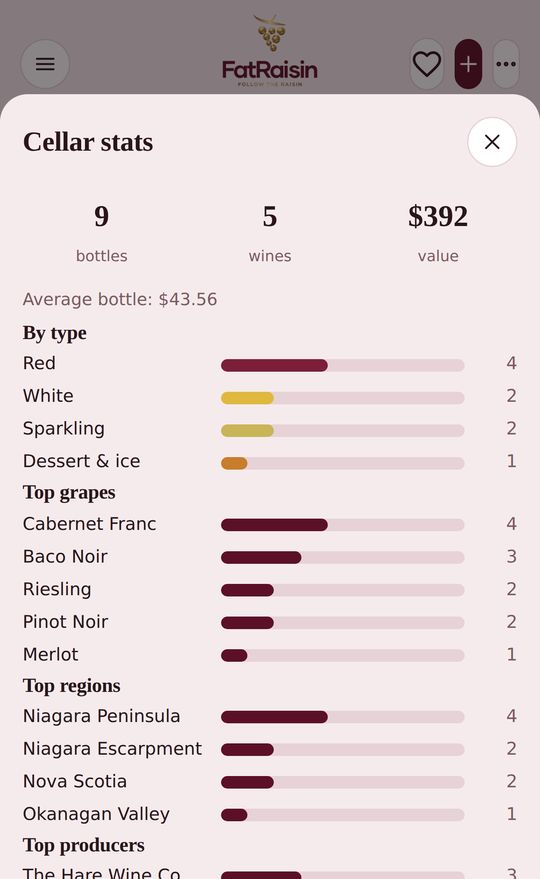
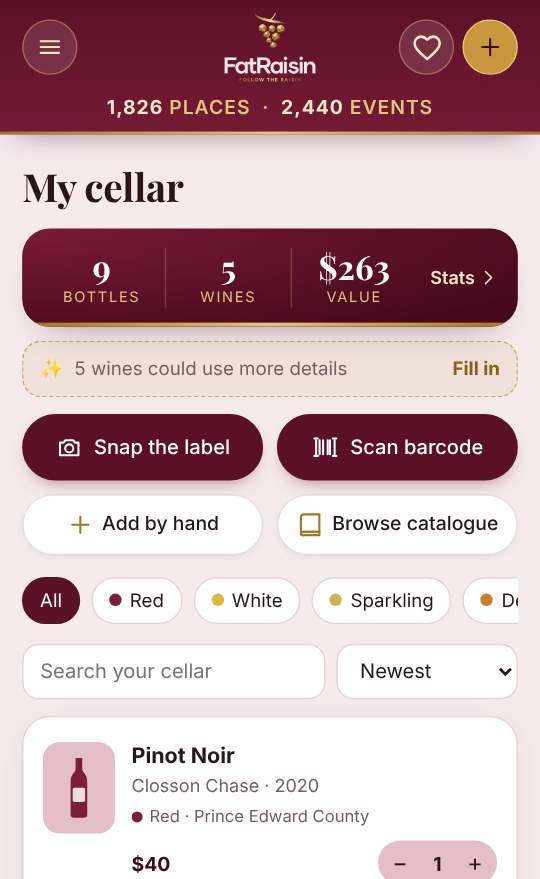
New welcome-tour pictures from the current design; Cellar summary card; one main and one secondary button style
Claude-Session: https://claude.ai/code/session_012HPqv8bDyUp9nkdMJtseXb

diff --git a/index.html b/index.html
@@ -1131,6 +1131,28 @@ button.gtk{cursor:pointer}button.gtk[aria-pressed="true"]{background:var(--accen
 .mlb{flex:1;min-width:0;font-size:14.5px;font-weight:500}
 .mnum{flex:none;min-width:24px;padding:1px 8px;border-radius:999px;background:rgba(92,16,39,.07);color:#5C1027;font-size:12px;font-weight:700;text-align:center}
 .mfoot{font-size:12px;color:var(--muted);text-align:center;margin:16px 0 0}
+
+/* ===== cellar top, refreshed ===== */
+.ctop{padding-bottom:6px}
+.csum{display:grid;grid-template-columns:1fr 1fr 1fr auto;align-items:center;width:100%;margin:0 0 10px;padding:14px 12px;border:0;border-radius:20px;cursor:pointer;font:inherit;text-align:center;color:#F6E7C8;background:radial-gradient(120% 120% at 0% 0%,#7A1A36 0%,#5C1027 60%,#45091D 100%);box-shadow:0 12px 26px -18px rgba(60,8,24,.6);position:relative;overflow:hidden}
+.csum::after{content:"";position:absolute;left:0;right:0;bottom:0;height:3px;background:linear-gradient(90deg,#A47424,#E6C27A 50%,#A47424)}
+.csum>span{display:flex;flex-direction:column;gap:1px}
+.csum>span+span{border-left:1px solid rgba(230,194,122,.25)}
+.csum b{font-family:var(--serif);font-size:24px;font-weight:700;color:#fff;line-height:1.1}
+.csum small{font-size:10.5px;letter-spacing:.12em;text-transform:uppercase;color:#E6C27A}
+.csum .csumgo{flex-direction:row;align-items:center;gap:2px;padding:0 2px 0 10px;font-size:13px;font-weight:600;color:#F6E7C8;border-left:0!important}
+.csum .csumgo .i{width:15px;height:15px}
+.cfillbar{display:flex;align-items:center;gap:8px;width:100%;margin:0 0 12px;padding:9px 12px;border-radius:14px;border:1px dashed rgba(164,116,36,.55);background:rgba(201,151,62,.1);font:inherit;font-size:13.5px;color:var(--ink);cursor:pointer;text-align:left}
+.cfillbar span{flex:1;color:var(--muted)}.cfillbar b{color:#8A5F1A;font-weight:700}
+/* ===== buttons: one main style (wine) and one secondary style (white) everywhere ===== */
+.btn{border-color:rgba(92,16,39,.14);box-shadow:0 2px 8px -6px rgba(60,8,24,.35)}
+.btn:hover{border-color:rgba(92,16,39,.14)}
+@media (hover:hover){.btn:hover{border-color:rgba(92,16,39,.35)}}
+.btn:not(.primary):not(.appleid):not(.visited):not(.going):not(.hhghost) .i,
+.btn:not(.primary):not(.appleid):not(.visited):not(.going):not(.hhghost)>svg{color:#A47424}
+.top .btn.icon .i,.top .btn.icon>svg{color:inherit!important}
+.btn.gold{border:1px solid rgba(92,16,39,.14);box-shadow:0 2px 8px -6px rgba(60,8,24,.35)}
+.btn.primary{box-shadow:0 6px 14px -8px rgba(92,16,39,.7)}
 </style>
 </head>
 <body>
@@ -2009,11 +2031,11 @@ function deleteAccount(){
 /* ===== welcome tour: three screens the first time the app opens (after the age check) ===== */
 var TOURKEY='cellardoor:tour:v1';
 var TOUR=[
-  {img:'img/tour-places.jpg',kick:'Discover',title:'Find wineries, breweries & more',text:'Thousands of places across Canada and the US. Search, filter by type or what\u2019s open now, and see photos, hours and directions.'},
-  {img:'img/tour-trails.jpg',kick:'Plan',title:'One-tap trails for a day out',text:'Start a ready-made trail, wineries only or mixed with breweries and cideries, and FatRaisin puts the stops in the best driving order.'},
-  {img:'img/tour-events.jpg',kick:'What\u2019s on',title:'Never miss a harvest dinner',text:'Tastings, releases, dinners and music near you. Tap I\u2019m going and add a reminder to your calendar.'},
-  {img:'img/tour-passport.jpg',kick:'Collect',title:'Stamp your passport',text:'Mark the places you visit and collect an inked stamp for each, then share your passport card with friends.'},
-  {img:'img/tour-cellar.jpg',kick:'Your cellar',title:'Snap a label, keep your cellar',text:'Photograph a bottle and FatRaisin reads the label for you. See what you have, what it\u2019s worth and what to drink soon.'}
+  {img:'img/tour-places.jpg?v=2',kick:'Discover',title:'Find wineries, breweries & more',text:'Thousands of places across Canada and the US. Search, filter by type or what\u2019s open now, and see photos, hours and directions.'},
+  {img:'img/tour-trails.jpg?v=2',kick:'Plan',title:'One-tap trails for a day out',text:'Start a ready-made trail, wineries only or mixed with breweries and cideries, and FatRaisin puts the stops in the best driving order.'},
+  {img:'img/tour-events.jpg?v=2',kick:'What\u2019s on',title:'Never miss a harvest dinner',text:'Tastings, releases, dinners and music near you. Tap I\u2019m going and add a reminder to your calendar.'},
+  {img:'img/tour-passport.jpg?v=2',kick:'Collect',title:'Stamp your passport',text:'Mark the places you visit and collect an inked stamp for each, then share your passport card with friends.'},
+  {img:'img/tour-cellar.jpg?v=2',kick:'Your cellar',title:'Snap a label, keep your cellar',text:'Photograph a bottle and FatRaisin reads the label for you. See what you have, what it\u2019s worth and what to drink soon.'}
 ];
 function showTour(force){
   try{if(!force&&localStorage.getItem(TOURKEY))return}catch(e){}
@@ -5883,7 +5905,10 @@ function cellarStatsHTML(){
 function cellarHTML(){
   var all=S.cellar||[],f=S.cFilter||'all',q=(S.cSearch||'').trim().toLowerCase(),sort=S.cSort||'recent';
   var bottles=0,value=0;all.forEach(function(w){var n=+w.qty||0;bottles+=n;if(+w.price)value+=n*(+w.price)});
-  var h='<div class="hero" style="padding-bottom:8px"><div style="display:flex;align-items:center;justify-content:space-between;gap:10px"><h2>My cellar</h2>'+(all.length?'<div style="display:flex;gap:6px">'+((all.some(wineNeeds))?'<button class="btn small" data-action="cfill-all">\u2728 <span>Fill in details</span></button>':'')+'<button class="btn small" data-action="cstats-open">\ud83d\udcca <span>Stats</span></button></div>':'')+'</div><p>'+(all.length?plural(bottles,'bottle')+' \u00b7 '+plural(all.length,'wine')+(value?' \u00b7 about $'+Math.round(value).toLocaleString()+' total':''):'Keep track of the bottles you own. Scan the barcode on the label to add one.')+'</p></div>'+
+  var needN=all.filter(wineNeeds).length;
+  var h='<div class="hero ctop"><h2>My cellar</h2>'+(all.length?'':'<p>Keep track of the bottles you own. Scan the barcode on the label to add one.</p>')+'</div>'+
+    (all.length?'<button class="csum" data-action="cstats-open" aria-label="See cellar stats"><span><b>'+bottles.toLocaleString()+'</b><small>bottle'+(bottles===1?'':'s')+'</small></span><span><b>'+all.length.toLocaleString()+'</b><small>wine'+(all.length===1?'':'s')+'</small></span><span><b>'+(value?'$'+Math.round(value).toLocaleString():'—')+'</b><small>value</small></span><span class="csumgo">Stats'+I.r+'</span></button>'+
+      (needN?'<button class="cfillbar" data-action="cfill-all">✨<span>'+plural(needN,'wine')+' could use more details</span><b>Fill in</b></button>':''):'')+
     '<div class="cactions"><button class="btn primary" data-action="cellar-label">'+CAM_ICON+'<span>Snap the label</span></button><button class="btn primary" data-action="cellar-scan">'+BARCODE_ICON+'<span>Scan barcode</span></button></div>'+
     '<div class="csub"><button class="btn" data-action="cellar-add">'+I.plus+'<span>Add by hand</span></button><button class="btn" data-action="cat-open">'+BOOK_ICON+'<span>Browse catalogue</span></button></div>';
   if(!all.length)return h+emptyHTML('glass','Your cellar is empty','Snap a bottle\u2019s label and FatRaisin fills in the name, producer, vintage and type for you. You can also scan a barcode or browse the catalogue.','');
